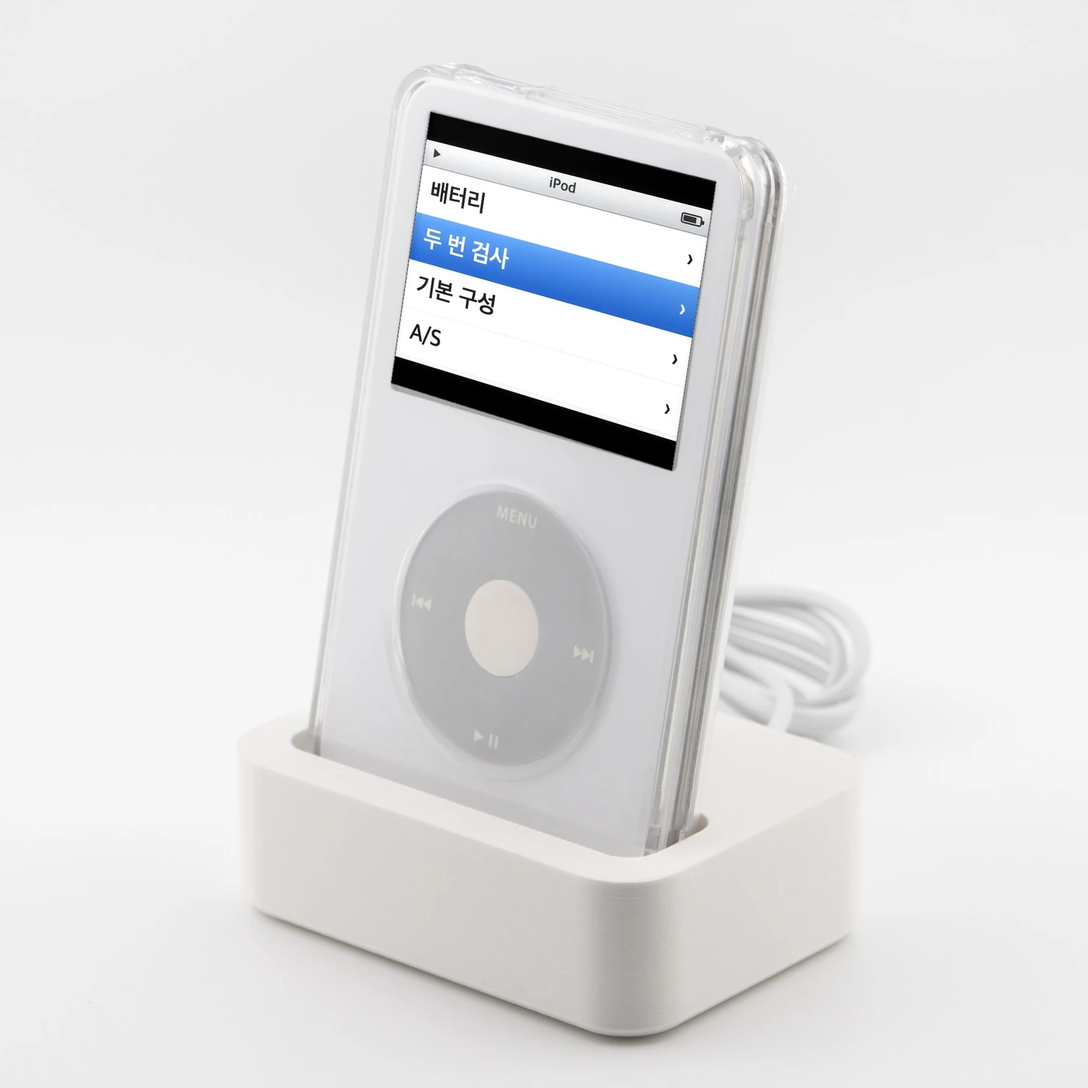
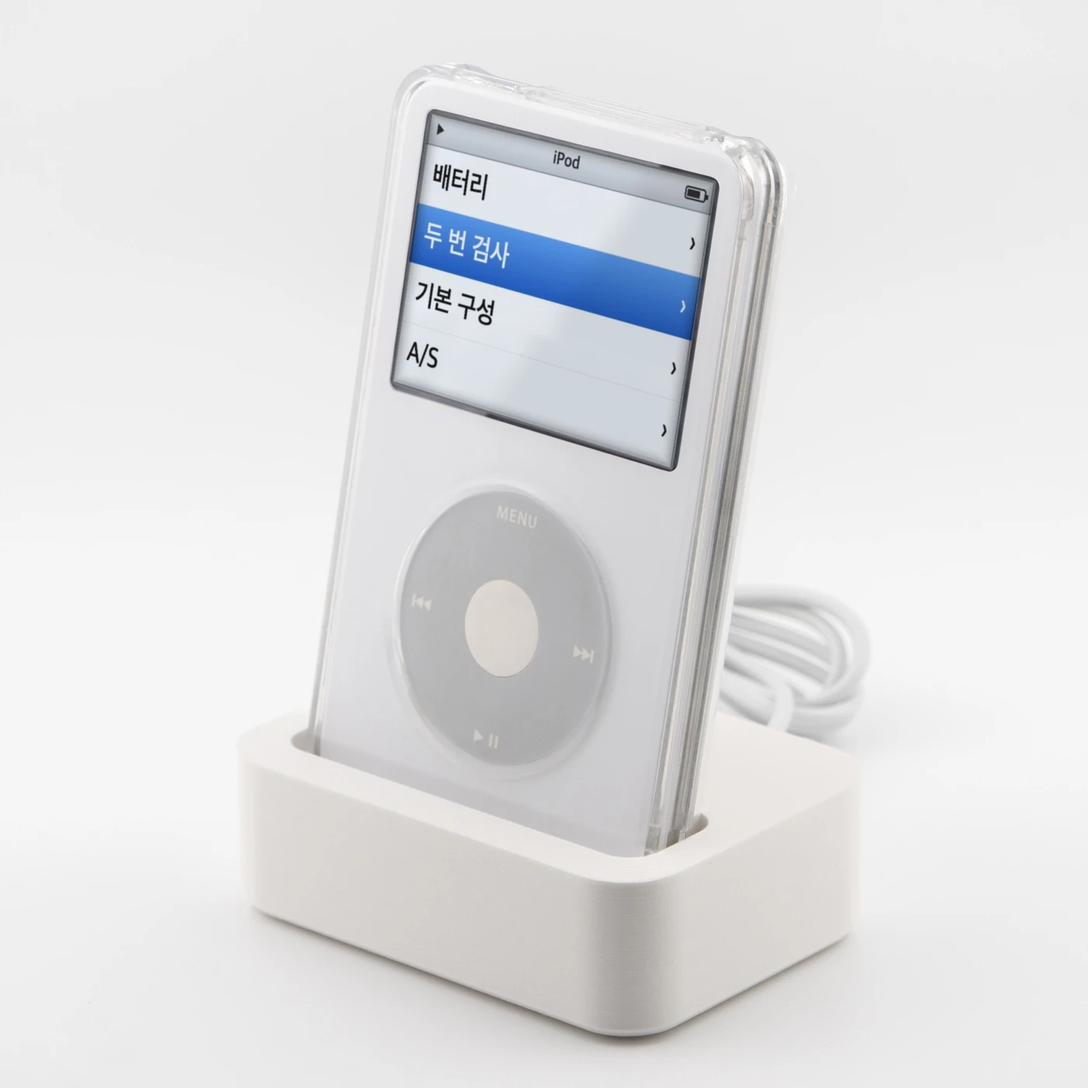
64GB 랜딩 비공개 미리보기(noindex) — preview_v4_3 공개용 사본
첫 화면 영상 타일, 클릭휠 4컷, c3 클립, 버튼 문구 안 A, 행사 구간 자동 전환(11/29 23:59:59 KST).

Changed region(s): [[0.3379, 0.0921, 0.6757, 0.43]]

diff --git a/index.html b/index.html
@@ -10,7 +10,7 @@
 <style>
 
 .pp-landing{
- --pp-bg:#ffffff;--pp-alt:#f5f5f7;--pp-ink:#1d1d1f;--pp-ink2:#6e6e73;--pp-ink3:#86868b;--pp-line:#d2d2d7;--pp-line2:#e8e8ed;--pp-white:#ffffff;
+ --pp-bg:#ffffff;--pp-alt:#f5f5f7;--pp-ink:#1d1d1f;--pp-ink2:#6e6e73;--pp-ink3:#6e6e73;--pp-line:#d2d2d7;--pp-line2:#e8e8ed;--pp-white:#ffffff;
  --pp-bar:rgba(255,255,255,.82);--pp-scrim:rgba(29,29,31,.72);--pp-accent:#0071e3;--pp-accent-hover:#0077ed;--pp-link:#0066cc;--pp-on-accent:#ffffff;--pp-dark:#111111;--pp-on-dark:#f5f5f7;
  --pp-font:"SF Pro Display","SF Pro Text",-apple-system,BlinkMacSystemFont,"Apple SD Gothic Neo",Pretendard,"Noto Sans KR",sans-serif;
  --pp-t-hero:clamp(44px,12.4vw,96px);--pp-t-h2:clamp(34px,9.4vw,64px);--pp-t-h3:clamp(26px,7vw,40px);--pp-t-lede:clamp(21px,5.6vw,28px);--pp-t-body:17px;--pp-t-cap:14px;--pp-t-num:clamp(96px,32vw,220px);
@@ -67,8 +67,6 @@
 .pp-landing .pp-slot>img.pp-cur{opacity:1;z-index:2}
 .pp-landing .pp-slot>video.pp-cur{z-index:2}
 .pp-landing .pp-slot>video.pp-play{opacity:1}
-.pp-landing .pp-slot .pp-wait{position:absolute;left:12px;bottom:12px;z-index:3;margin:0;padding:6px 12px;border-radius:var(--pp-r-pill);background:rgba(255,255,255,.88);color:var(--pp-ink2);font-size:13px;font-weight:600;line-height:1.3;letter-spacing:0}
-.pp-landing .pp-slot .pp-wait[hidden]{display:none}
 .pp-landing .pp-snd{position:absolute;left:var(--pp-gutter);bottom:16px;width:44px;height:44px;border-radius:50%;border:0;background:var(--pp-scrim);display:grid;place-items:center;color:var(--pp-white);cursor:pointer;transition:background-color var(--pp-d-press) var(--pp-ease),transform var(--pp-d-press) var(--pp-ease)}
 .pp-landing .pp-snd[aria-pressed="true"]{background:var(--pp-accent)}
 .pp-landing .pp-snd svg{width:22px;height:22px;fill:none;stroke:currentColor;stroke-width:1.6;stroke-linecap:round;stroke-linejoin:round}
@@ -85,6 +83,25 @@
 .pp-landing .pp-evp small{display:block;margin-top:4px;font-size:14px;font-weight:500;color:var(--pp-ink2);letter-spacing:0}
 
 /* 글꼴 자체 호스팅 자리: assets.json 의 fonts.enabled 가 켜지면 빌더가 글꼴 규칙을 이 파일 앞에 만든다(지금은 꺼짐 = 위 --pp-font 시스템 스택 그대로). 파일은 assets/fonts/ 에 둔다. */
+
+/* 영상 프레임 타일(첫 화면·c3): 둥근 타일, 정지 이미지 위에 캔버스가 페이드로 올라온다. 전면 풀블리드 아님 */
+.pp-landing .pp-vwrap{position:relative;margin:var(--pp-s4) auto 0;max-width:calc(520px + 2*var(--pp-gutter));padding:0 var(--pp-gutter);box-sizing:border-box}
+.pp-landing .pp-vtile{position:relative;overflow:hidden;isolation:isolate;aspect-ratio:var(--pp-w)/var(--pp-h);background:#d9d9de}
+.pp-landing .pp-vwrap .pp-vtile{border-radius:var(--pp-r-tile)}
+.pp-landing .pp-vtile img,.pp-landing .pp-vtile canvas{position:absolute;left:0;top:0;width:100%;height:100%;max-width:none;object-fit:cover}
+.pp-landing .pp-vtile canvas{opacity:0;transition:opacity .22s ease-out}
+.pp-landing .pp-vtile.pp-run canvas{opacity:1}
+.pp-landing .pp-vwrap .pp-snd{left:calc(var(--pp-gutter) + 14px);bottom:14px}
+.pp-landing .pp-photo .pp-vtile{width:min(100%,560px);margin:0 auto}
+/* c3: 영상 위 흰 글자가 밝은 부분에서도 읽히도록 위·아래에 어두운 그라데이션(영상 위에 얹는 장식이 아니라 가독성 보조) */
+/* 가격 칸 앞 글자(판매처 이름): 좁은 화면에서는 보조기기용으로만 */
+.pp-landing .pp-pfx{margin-right:6px;color:var(--pp-ink2);font-weight:500}
+@media (max-width:640px){.pp-landing .pp-pfx{position:absolute;width:1px;height:1px;overflow:hidden;clip:rect(0 0 0 0);white-space:nowrap;margin:0}}
+/* 좁은 화면: 위 줄의 상품명은 보조기기용으로만 남기고 가격·구매 버튼에 폭을 준다(버튼 글자가 길다) */
+@media (max-width:480px){.pp-landing .pp-nav .pp-nm{position:absolute;width:1px;height:1px;overflow:hidden;clip:rect(0 0 0 0);white-space:nowrap}}
+/* 버튼 아래 작은 한 줄 */
+.pp-landing .pp-btnnote{margin-top:12px;font-size:var(--pp-t-cap);line-height:1.4;color:var(--pp-ink2)}
+.pp-landing .pp-cta>.pp-btnnote{margin-top:12px}
 
 /* 장 0 */
 .pp-landing [data-pp-kind="hero"]{padding-top:calc(52px + var(--pp-s6))}
@@ -127,10 +144,9 @@
 .pp-landing [data-pp-kind="mood"]{padding:0;background:#000;color:#fff}
 .pp-landing .pp-photo{position:relative;margin:0;padding-top:56px;background:#000}
 .pp-landing .pp-photo>img{width:100%;height:min(150vw,980px);object-fit:cover;object-position:50% 62%}
-.pp-landing .pp-photo-txt{position:absolute;left:0;right:0;top:0;padding:clamp(48px,12vw,88px) var(--pp-gutter) 0}
+.pp-landing .pp-photo-txt{position:absolute;left:0;right:0;top:0;padding:clamp(48px,12vw,88px) var(--pp-gutter) var(--pp-s5);background:linear-gradient(rgba(0,0,0,.66),rgba(0,0,0,.4) 72%,rgba(0,0,0,0))}
 .pp-landing .pp-photo-txt p{font-size:clamp(34px,9.4vw,52px);font-weight:700;letter-spacing:var(--pp-track-head);line-height:1.18}
-.pp-landing .pp-photo-cap{position:absolute;left:0;right:0;bottom:8px;font-size:13px;color:rgba(255,255,255,.7);text-align:center}
-.pp-landing .pp-photo-cta{position:absolute;left:0;right:0;bottom:36px;text-align:center}
+.pp-landing .pp-photo-cta{position:absolute;left:0;right:0;bottom:0;padding:var(--pp-s4) 0 36px;text-align:center;background:linear-gradient(rgba(0,0,0,0),rgba(0,0,0,.5))}
 .pp-landing .pp-photo-cta .pp-link{color:#fff;font-size:21px;min-height:44px}
 
 /* 다리: 클릭휠 */
@@ -207,8 +223,6 @@
 }
 </style></head>
 <body>
-<!-- 미리보기 전용: 비공개 시험 페이지(noindex). 가짜 가격·가짜 구매 영역은 카페24 상품 페이지를 흉내 낸 것이며 가격은 코드에 굽지 않는다. -->
-<span id="ec-product-price-info" ec-data-price="267900" style="display:none"></span>
 <div class="pp-landing">
 <section id="pp-c0" data-pp-scene="c0" data-pp-act="1" data-pp-kind="hero">
 <div class="pp-wrap">
@@ -216,15 +230,13 @@
 <p class="pp-lede" data-pp-r>어른이 된 지금은,<br>가질 수 있습니다.</p>
 <h1 class="pp-name" data-pp-r>아이팟 클래식 5세대 64GB</h1>
 </div>
-<div class="pp-stagewrap"><div class="pp-stage"><div class="pp-slot" data-pp-slot="hero" data-pp-states="off,boot,menu,play" data-pp-cuts="{&quot;off&quot;:&quot;assets/c0/hero_off.webp&quot;,&quot;boot&quot;:&quot;assets/c0/hero_boot.webp&quot;,&quot;menu&quot;:&quot;assets/c0/hero_menu.webp&quot;,&quot;play&quot;:&quot;assets/c0/hero_play.webp&quot;}" data-pp-clips="{}" data-pp-labels="{&quot;off&quot;:&quot;꺼진 화면&quot;,&quot;boot&quot;:&quot;부팅&quot;,&quot;menu&quot;:&quot;메뉴&quot;,&quot;play&quot;:&quot;재생&quot;}" data-pp-seq="off:800,boot:1200,menu:1600,play:0" data-pp-rest="menu" data-pp-wait="1" style="--pp-w:1400;--pp-h:1400"><img class="pp-cur" src="assets/c0/hero_off.webp" alt="충전 독에 꽂혀 있는 아이팟 클래식 5세대" width="1400" height="1400" fetchpriority="high"><span class="pp-wait" hidden></span></div></div>
-<button type="button" class="pp-snd" data-pp-sound aria-pressed="false" aria-label="소리 켜기"><svg viewBox="0 0 24 24" aria-hidden="true" focusable="false"><path d="M4 9v6h4l5 4V5L8 9H4z"/><path d="M16.5 8.5a5 5 0 0 1 0 7M19 6a8.5 8.5 0 0 1 0 12"/></svg></button></div>
+<div class="pp-vwrap"><div class="pp-vtile" data-pp-seqclip data-pp-base="assets/c0/seq/h_" data-pp-count="72" data-pp-ext=".webp" data-pp-fps="12" data-pp-w="720" data-pp-h="900" data-pp-eager="1" style="--pp-w:720;--pp-h:900"><img src="assets/c0/hero_menu.webp" alt="손에 든 아이팟 클래식 5세대가 뒷판에서 앞으로 돌며 화면이 켜지고 메뉴가 넘어가는 영상" width="720" height="900" fetchpriority="high" decoding="async"><canvas aria-hidden="true"></canvas></div></div>
 <p class="pp-cue">아래로</p>
 </section>
 <section id="pp-c1" data-pp-scene="c1" data-pp-act="1" data-pp-kind="memory"><div class="pp-wrap">
 <h2 class="pp-h2 pp-g" data-pp-split="focus">그때는 비쌌고,<br>지금은 단종입니다.</h2>
 <h2 class="pp-h2" data-pp-split="focus" style="margin-top:6px">그래서 더 갖고<br>싶었던 물건.</h2>
 <div class="pp-tile" style="margin-top:var(--pp-s5)"><picture><source media="(prefers-reduced-motion: reduce)" srcset="assets/c1/back_close.webp"><img class="pp-strip" src="assets/c1/mirror.webp" alt="은색과 검정 아이팟 클래식이 나무 책상 위에 놓여 있다가 거울 같은 뒷판이 보이는 영상" width="720" height="360" loading="lazy" decoding="async" data-pp-r></picture></div>
-<p class="pp-cap">분위기 컷 · 판매 제품과 다를 수 있습니다</p>
 <p><a class="pp-link" href="#pp-buy-area" data-pp-cta>64GB 보기</a></p>
 </div></section>
 <section id="pp-c2" data-pp-scene="c2" data-pp-act="1" data-pp-kind="s1" data-pp-end="300,200">
@@ -246,10 +258,9 @@
 </div>
 </section>
 <section id="pp-c3" data-pp-scene="c3" data-pp-act="1" data-pp-kind="mood">
-<figure class="pp-photo"><img src="assets/c3/song.webp" alt="어두운 배경의 나무 책상 위에 세워 둔 아이팟 클래식" width="860" height="573" loading="lazy" decoding="async">
+<figure class="pp-photo"><div class="pp-vtile" data-pp-seqclip data-pp-base="assets/c3/seq/p_" data-pp-count="22" data-pp-ext=".webp" data-pp-fps="12" data-pp-w="720" data-pp-h="900" style="--pp-w:720;--pp-h:900"><img src="assets/c3/song.webp" alt="아이팟에 이어폰 잭을 꽂는 영상" width="720" height="900" loading="lazy" decoding="async"><canvas aria-hidden="true"></canvas></div>
 <div class="pp-photo-txt"><p data-pp-split="focus">곡은 직접 담습니다.<br>줄은 엉킵니다.<br>알림은 안 옵니다.<br>불편해서 좋습니다.</p></div>
-<div class="pp-photo-cta"><a class="pp-link" href="#pp-buy-area" data-pp-cta>구입하기</a></div>
-<p class="pp-photo-cap">분위기 컷 · 판매 제품과 다를 수 있습니다</p>
+<div class="pp-photo-cta"><a class="pp-link" href="#pp-buy-area" data-pp-cta>네이버에서 구입하기</a></div>
 </figure>
 </section>
 <section id="pp-bridge" data-pp-scene="bridge" data-pp-act="2" data-pp-kind="wheel"><div class="pp-wrap">
@@ -257,7 +268,7 @@
 <h2 class="pp-h2" data-pp-split="focus" style="margin-top:6px">중요한 건,<br>어디에서 사느냐입니다.</h2>
 <p class="pp-lede" data-pp-r>휠을 돌려 보세요.</p>
 </div>
-<div class="pp-stagewrap" data-pp-r><div class="pp-stage" style="--wx:46.40;--wy:58.40;--wa:10.00;--wb:13.30"><div class="pp-slot" data-pp-slot="wheel" data-pp-states="battery,check,kit,as" data-pp-cuts="{&quot;check&quot;:&quot;assets/bridge/wheel_check.webp&quot;}" data-pp-clips="{}" data-pp-labels="{&quot;battery&quot;:&quot;배터리&quot;,&quot;check&quot;:&quot;두 번 검사&quot;,&quot;kit&quot;:&quot;기본 구성&quot;,&quot;as&quot;:&quot;A/S&quot;}" data-pp-wait="1" style="--pp-w:1400;--pp-h:1400"><span class="pp-wait">디자인팀 컷 대기 · 배터리</span></div>
+<div class="pp-stagewrap" data-pp-r><div class="pp-stage" style="--wx:46.40;--wy:58.40;--wa:10.00;--wb:13.30"><div class="pp-slot" data-pp-slot="wheel" data-pp-states="battery,check,kit,as" data-pp-cuts="{&quot;battery&quot;:&quot;assets/bridge/wheel_battery.webp&quot;,&quot;check&quot;:&quot;assets/bridge/wheel_check.webp&quot;,&quot;kit&quot;:&quot;assets/bridge/wheel_kit.webp&quot;,&quot;as&quot;:&quot;assets/bridge/wheel_as.webp&quot;}" data-pp-clips="{}" data-pp-labels="{&quot;battery&quot;:&quot;배터리&quot;,&quot;check&quot;:&quot;두 번 검사&quot;,&quot;kit&quot;:&quot;기본 구성&quot;,&quot;as&quot;:&quot;A/S&quot;}" style="--pp-w:1400;--pp-h:1400"><img class="pp-cur" src="assets/bridge/wheel_battery.webp" alt="클릭휠로 고르는 메뉴: 배터리, 두 번 검사, 기본 구성, A/S" width="1400" height="1400" loading="lazy" decoding="async"></div>
 <div class="pp-wheel" data-pp-wheel tabindex="0" role="group" aria-label="클릭휠. 돌리면 메뉴가 넘어갑니다. 위아래 화살표로 선택, Enter로 이동"></div></div></div>
 <div class="pp-wrap"><ul class="pp-list" data-pp-menu>
 <li class="pp-sel"><a href="#pp-battery" data-pp-d="1950mAh 새것입니다">배터리</a></li>
@@ -306,7 +317,7 @@
 <div class="pp-tl" data-pp-r><div><b>7일</b>교환<br>환불</div><div class="pp-x"><b>180일 무상</b>남긴 메인보드·프레임까지 포함</div><div class="pp-y"><b>그 뒤 평생 실비</b>부품값·공임만</div></div>
 <p class="pp-cap" style="margin-top:16px">7일이 지난 뒤 왕복 택배비 7,000원은 고객 부담입니다</p>
 <p class="pp-lede" style="font-size:19px;margin-top:12px" data-pp-r>문의는 톡톡 QR로 받습니다</p></div>
-<p style="margin-top:var(--pp-s4)"><a class="pp-link" href="#pp-buy-area" data-pp-cta data-pp-r>구입하기</a></p>
+<p style="margin-top:var(--pp-s4)"><a class="pp-link" href="#pp-buy-area" data-pp-cta data-pp-r>네이버에서 구입하기</a></p>
 </div></section>
 <section id="pp-faq" data-pp-scene="faq" data-pp-act="2" data-pp-kind="faq"><div class="pp-wrap">
 <h2 class="pp-h2">자주 묻는 질문</h2>
@@ -318,16 +329,17 @@
 <section id="pp-c8" data-pp-scene="c8" data-pp-act="2" data-pp-kind="end"><div class="pp-wrap"><div class="pp-cta">
 <h2 class="pp-h2" data-pp-split="rev">마음에 드셨다면,<br>지금 담으세요.</h2>
 <p data-pp-r>평일 15시 전 주문하면 당일출고<br>7일 교환·환불, 180일 무상 A/S</p>
-<div class="pp-evp" data-pp-evnode data-pp-r><span class="pp-evb">블프</span><s>₩288,000</s> → 쿠폰 적용 <b>₩259,200</b><small>10%, 5만 원 이상·최대 10만, ~11/29 23:59</small></div>
+<div class="pp-evp" data-pp-evnode data-pp-r><span class="pp-evb">블프</span><s>₩288,000</s> → 쿠폰 적용 <b>₩259,200</b> (~11.29)<small>10%, 5만 원 이상·최대 10만, ~11/29 23:59</small></div>
 <div class="pp-three" data-pp-r><div><b>64GB</b>아이팟 클래식 5세대</div><div><b>1950mAh</b>직접 KC 안전확인 받은 새 배터리</div><div><b>6칸</b>직접 점검하고 보냅니다</div></div>
 <p class="pp-proof" data-pp-r>와디즈 5억+ · 후기 1,200건+</p>
-<p style="margin-top:var(--pp-s5)"><a class="pp-btn" href="#pp-buy-area" data-pp-cta data-pp-r>구입하기</a></p>
+<p style="margin-top:var(--pp-s5)"><a class="pp-btn" href="#pp-buy-area" data-pp-cta data-pp-r>네이버에서 구입하기</a></p>
+<p class="pp-btnnote" data-pp-r>페퍼클럽 네이버 스마트스토어로 이동합니다</p>
 </div>
 <p class="pp-foot">페퍼클럽은 Apple의 공식 판매처가 아닙니다. Apple, iPod는 Apple Inc.의 상표입니다. 사진 속 제품에 새겨진 로고는 제품 자체의 표기입니다.</p></div></section>
-<div data-pp-buy="1" data-pp-buy-ui="top" data-pp-name="아이팟 클래식 64GB" data-pp-label-1="구입하기" data-pp-label-2="구입하기" data-pp-buy-mode="scroll" data-pp-dest="naver" data-pp-ev="{&quot;normal&quot;:288000,&quot;coupon&quot;:259200,&quot;badge&quot;:&quot;블프&quot;,&quot;label&quot;:&quot;쿠폰 적용&quot;,&quot;note&quot;:&quot;10%, 5만 원 이상·최대 10만, ~11/29 23:59&quot;,&quot;ends&quot;:&quot;2026-11-29T23:59:59+09:00&quot;,&quot;title&quot;:&quot;아이팟 클래식 5세대 64GB — 한 대씩 다시 만든 페퍼클럽&quot;,&quot;desc&quot;:&quot;메인보드와 프레임만 남기고 1950mAh 새 배터리로 다시 만든 아이팟 클래식 5세대 64GB. 평일 15시 전 주문 당일출고, 180일 무상 A/S.&quot;}" data-pp-naver-url="https://smartstore.naver.com/main/products/11564119644" data-pp-naver-tags="{&quot;nt_source&quot;:&quot;pepperclub_home&quot;,&quot;nt_medium&quot;:&quot;landing&quot;,&quot;nt_detail&quot;:&quot;ipod64&quot;}" data-pp-naver-kw="{&quot;top&quot;:&quot;top&quot;,&quot;bottom&quot;:&quot;bottom&quot;,&quot;link&quot;:&quot;cta_{scene}&quot;,&quot;end&quot;:&quot;cta_end&quot;}" data-pp-naver-price="288000" style="height:0;overflow:hidden"></div>
+<div data-pp-buy="1" data-pp-buy-ui="top" data-pp-name="아이팟 클래식 64GB" data-pp-label-1="네이버에서 구입하기" data-pp-label-2="네이버에서 구입하기" data-pp-buy-mode="scroll" data-pp-dest="naver" data-pp-ev="{&quot;normal&quot;:288000,&quot;coupon&quot;:259200,&quot;badge&quot;:&quot;블프&quot;,&quot;label&quot;:&quot;쿠폰 적용&quot;,&quot;note&quot;:&quot;10%, 5만 원 이상·최대 10만, ~11/29 23:59&quot;,&quot;ends&quot;:&quot;2026-11-29T23:59:59+09:00&quot;,&quot;title&quot;:&quot;아이팟 클래식 5세대 64GB — 한 대씩 다시 만든 페퍼클럽&quot;,&quot;desc&quot;:&quot;메인보드와 프레임만 남기고 1950mAh 새 배터리로 다시 만든 아이팟 클래식 5세대 64GB. 평일 15시 전 주문 당일출고, 180일 무상 A/S.&quot;,&quot;until&quot;:&quot;~11.29&quot;,&quot;prefix&quot;:&quot;네이버 판매가&quot;}" data-pp-naver-url="https://smartstore.naver.com/main/products/11564119644" data-pp-naver-tags="{&quot;nt_source&quot;:&quot;pepperclub_home&quot;,&quot;nt_medium&quot;:&quot;landing&quot;,&quot;nt_detail&quot;:&quot;ipod64&quot;}" data-pp-naver-kw="{&quot;top&quot;:&quot;top&quot;,&quot;bottom&quot;:&quot;bottom&quot;,&quot;link&quot;:&quot;cta_{scene}&quot;,&quot;end&quot;:&quot;cta_end&quot;}" data-pp-naver-price="288000" data-pp-price-prefix="네이버 판매가" style="height:0;overflow:hidden"></div>
 </div>
 
-<div id="pp-buy-area" class="xans-product-action" style="scroll-margin-top:60px;padding:80px 16px 180px;text-align:center;background:#f5f5f7;color:#6e6e73;font:500 14px/1.5 sans-serif">실제 페이지에서는 카페24 구매 영역이 여기에 이어집니다</div>
+<div id="pp-buy-area" class="xans-product-action" aria-hidden="true" style="height:0"></div>
 <script src="https://cdnjs.cloudflare.com/ajax/libs/gsap/3.13.0/gsap.min.js"></script>
 <script src="https://cdnjs.cloudflare.com/ajax/libs/gsap/3.13.0/ScrollTrigger.min.js"></script>
 <script src="https://cdnjs.cloudflare.com/ajax/libs/gsap/3.13.0/SplitText.min.js"></script>
@@ -378,14 +390,16 @@ function srvNow(cb){var done=0,ac=w.AbortController?new w.AbortController():null
 /* 행사 구간 표시 — 위 제품 줄(또는 하단 버튼)의 가격 칸: 라벨 + 취소선 평시가 → 라벨 문구 + 행사가. 작은 화면에서는 행사가만 보이고 전체 문구는 보조기기용으로 남긴다. 글자는 전부 마커의 data-pp-ev 값(코드에 문구 없음). */
 function mk(t,c,x){var e=d.createElement(t);if(c)e.className=c;if(x)e.appendChild(d.createTextNode(x));return e}
 function won(n){return '₩'+n.toLocaleString('ko-KR')}
+/* 평시 가격 칸: [앞 글자] + 가격. 앞 글자(예: 판매처 이름)는 좁은 화면에서 보조기기용으로만 남는다. */
+function plain(pr,n,pf){pr.className='pp-price';while(pr.firstChild)pr.removeChild(pr.firstChild);if(pf)pr.appendChild(mk('span','pp-pfx',pf));pr.appendChild(d.createTextNode(won(n)))}
 function evPrice(pr,ev){var f=mk('span','pp-evf'),sv=mk('s','',won(ev.normal)),sm=mk('span','pp-evs',won(ev.coupon));
  pr.className='pp-price pp-ev';while(pr.firstChild)pr.removeChild(pr.firstChild);
- f.appendChild(sv);f.appendChild(d.createTextNode(' → '+ev.label+' '+won(ev.coupon)));sm.setAttribute('aria-hidden','true');
+ f.appendChild(sv);f.appendChild(d.createTextNode(' → '+ev.label+' '+won(ev.coupon)+(ev.until?' ('+ev.until+')':'')));sm.setAttribute('aria-hidden','true');
  if(ev.badge)pr.appendChild(mk('span','pp-evb',ev.badge));pr.appendChild(f);pr.appendChild(sm);R.classList.add('pp-event')}
 /* 행사 끝: 행사 전용 노드 제거 + 가격 칸을 평시가로 + 제목·설명을 평시 값으로(값은 마커에 실려 있다). 한 번만. */
 function evOff(ev){if(evDone)return;evDone=1;R.classList.remove('pp-event');
  slice.call(d.querySelectorAll('[data-pp-evnode]')).forEach(function(n){if(n.parentNode)n.parentNode.removeChild(n)});
- if(PR){PR.className='pp-price';while(PR.firstChild)PR.removeChild(PR.firstChild);PR.appendChild(d.createTextNode(won(ev.normal)))}
+ if(PR)plain(PR,ev.normal,ev.prefix||'')
  if(ev.title)d.title=ev.title;var m=d.querySelector('meta[name=description]');if(m&&ev.desc)m.setAttribute('content',ev.desc);
  if(M)M.removeAttribute('data-pp-ev');ev2('pp:event',{on:false})}
 function evInit(){var ev=M&&EV;if(!ev)return;
@@ -397,7 +411,7 @@ function evInit(){var ev=M&&EV;if(!ev)return;
    위 제품 줄 버튼·하단 고정 버튼·[data-pp-cta] 링크 전부 같은 도착지를 쓴다. 가격: naver 면 마커의 data-pp-naver-price(없으면 칸 자체를 안 그림), cafe24 면 #ec-product-price-info 의 ec-data-price.
    위 얇은 제품 줄(기본, 알약 버튼) 또는 하단 고정 버튼 — 마커의 data-pp-buy-ui="top|bottom" 한 줄로 전환. */
 function buy(){if(!M)return;
- var top=(M.getAttribute('data-pp-buy-ui')||'top')=='top',nv=M.getAttribute('data-pp-dest')=='naver',W,P=d.getElementById('ec-product-price-info'),pr,nu='';
+ var top=(M.getAttribute('data-pp-buy-ui')||'top')=='top',nv=M.getAttribute('data-pp-dest')=='naver',W,P=d.getElementById('ec-product-price-info'),pr,pfx,nu='';
  var u0=M.getAttribute('data-pp-naver-url')||'',tg=pj(M,'data-pp-naver-tags'),kw=pj(M,'data-pp-naver-kw');
  function nuf(k){var t={},x;for(x in tg)t[x]=tg[x];t.nt_keyword=k;return tagUrl(u0,t)}
  if(nv){nv=!!u0;if(nv)nu=nuf(top?(kw.top||'top'):(kw.bottom||'bottom'))}
@@ -405,7 +419,7 @@ function buy(){if(!M)return;
  if(nv){B.target='_blank';B.rel='noopener noreferrer'}else B.setAttribute('role','button');
  L=d.createElement('span');L.appendChild(d.createTextNode(''));B.appendChild(L);
  P=nv?parseInt(M.getAttribute('data-pp-naver-price'),10):parseInt(P&&P.getAttribute('ec-data-price'),10);
- if(P>0){pr=d.createElement('span');pr.className='pp-price';pr.appendChild(d.createTextNode('₩'+P.toLocaleString('ko-KR')));PR=pr;
+ if(P>0){pr=d.createElement('span');pr.className='pp-price';pfx=nv?M.getAttribute('data-pp-price-prefix')||'':'';plain(pr,P,pfx);PR=pr;
   EV=nv?pj(M,'data-pp-ev'):null;if(EV&&!(EV.coupon>0&&EV.normal>0&&EV.ends))EV=null;if(EV)evPrice(pr,EV)}
  if(top){W=d.createElement('div');W.className='pp-nav';var nm=d.createElement('span');nm.className='pp-nm';nm.appendChild(d.createTextNode(M.getAttribute('data-pp-name')||''));
   W.appendChild(nm);if(pr)W.appendChild(pr);W.appendChild(B);R.classList.add('pp-ui-top');
@@ -416,7 +430,7 @@ function buy(){if(!M)return;
   e.preventDefault();try{emit('pp_buy_click',null,A);
   if(M.getAttribute('data-pp-buy-mode')=='submit'&&typeof w.product_submit=='function'){w.product_submit(1,'/exec/front/order/basket/',B);return}
   go(d.querySelector('.xans-product-action')||d.getElementById('fixedActionButton'))
- }catch(x){w.console&&console.warn('pp_v42',x&&x.message)}});
+ }catch(x){w.console&&console.warn('pp_v43',x&&x.message)}});
  R.appendChild(W);setAct(1);
  slice.call(d.querySelectorAll('[data-pp-cta]')).forEach(function(a){
   if(nv){var sc=a.closest&&a.closest('[data-pp-scene]'),id=sc?sc.getAttribute('data-pp-scene'):'';a.href=nuf(a.classList.contains('pp-btn')?(kw.end||'cta_end'):(kw.link||'cta_{scene}').replace('{scene}',id));a.target='_blank';a.rel='noopener noreferrer';a.addEventListener('click',function(){try{emit('pp_buy_click',null,A,'naver')}catch(x){}})}
@@ -452,15 +466,15 @@ function s1(el){
 var SL={};
 function pj(el,k){try{return JSON.parse(el.getAttribute(k)||'{}')||{}}catch(x){return{}}}
 function slot(el){
- var nm=el.getAttribute('data-pp-slot'),st=(el.getAttribute('data-pp-states')||'').split(','),cu=pj(el,'data-pp-cuts'),cl=pj(el,'data-pp-clips'),lb=pj(el,'data-pp-labels'),
-  wt=el.getAttribute('data-pp-wait')=='1',wl=el.querySelector('.pp-wait'),fi=el.querySelector('img'),sq=(el.getAttribute('data-pp-seq')||'').split(',').filter(Boolean),
+ var nm=el.getAttribute('data-pp-slot'),st=(el.getAttribute('data-pp-states')||'').split(','),cu=pj(el,'data-pp-cuts'),cl=pj(el,'data-pp-clips'),
+  fi=el.querySelector('img'),sq=(el.getAttribute('data-pp-seq')||'').split(',').filter(Boolean),
   rest=st.indexOf(el.getAttribute('data-pp-rest')||''),Ly=[],cur=-1,pvL=null,tk=0,vis=false,pre=false,go1=0,wn={},ct,k,im,own,c,L;
  function els(L){return L.vd?[L.im,L.vd]:[L.im]}
  function cls(L,n,on){els(L).forEach(function(e){e.classList[on?'add':'remove'](n)})}
- function warn(t){w.console&&console.warn('pp_v42 '+nm+'/'+t)}
+ function warn(t){w.console&&console.warn('pp_v43 '+nm+'/'+t)}
  for(k=0;k<st.length;k++)if(cu[st[k]]){
   own=k==0&&fi;im=own?fi:d.createElement('img');
-  if(!own){im.alt='';im.setAttribute('aria-hidden','true');im.decoding='async';el.insertBefore(im,wl||null)}
+  if(!own){im.alt='';im.setAttribute('aria-hidden','true');im.decoding='async';el.appendChild(im)}
   c=cl[st[k]]||{};L={im:im,src:cu[st[k]],clip:c,ok:null,cb:[],on:0,k:k,vd:null};Ly[k]=L;
   if(c.mp4&&!RM){
    L.vd=d.createElement('video');L.vd.muted=true;L.vd.defaultMuted=true;L.vd.setAttribute('muted','');L.vd.playsInline=true;L.vd.setAttribute('playsinline','');
@@ -488,7 +502,6 @@ function slot(el){
  function retire(L){cls(L,'pp-prev',0);if(L.vd)L.vd.classList.remove('pp-play')}
  function apply(k,j){var N=j>=0?Ly[j]:null,O=cur>=0?Ly[cur]:null,lack=j!==k;
   if(lack&&!wn[k]){wn[k]=1;warn(st[k]+': 컷 없음 - '+(j>=0?'이전 컷('+st[j]+') 유지':'비어 있음'))}
-  if(wl){wl.hidden=!(wt&&lack);if(lack)wl.textContent='디자인팀 컷 대기 · '+(lb[st[k]]||st[k])}
   el.setAttribute('data-pp-cur',st[k]);el.setAttribute('data-pp-shown',j>=0?st[j]:'');
   if(j===cur)return;
   if(pvL&&pvL!==O)retire(pvL);
@@ -506,6 +519,28 @@ function slot(el){
  if(w.IntersectionObserver){
   new w.IntersectionObserver(function(es,o){if(es[0].isIntersecting){preload();o.disconnect()}},{rootMargin:'400px 0px'}).observe(el);
   new w.IntersectionObserver(function(es){if(es[0].isIntersecting)enter();else leave()},{threshold:.3}).observe(el)
+ }else enter()}
+
+/* 영상 프레임 타일: 프레임 이미지(base+번호+확장자)를 캔버스에 시간 순서대로 한 번 그리고 마지막 프레임에서 멈춘다. 정지 이미지는 영상이 뜨기 전·JS 꺼짐·읽기 실패의 폴백.
+   화면에 30% 이상 들어오면 시작(프레임이 다 모이거나 2.5초 뒤 첫 프레임이 있으면). 못 읽은 프레임은 직전 프레임으로 이어 간다. 움직임 줄이기: 마지막 프레임만 읽어 정지로 보여 준다. */
+function seqclip(el){
+ var n=+el.getAttribute('data-pp-count')||0,base=el.getAttribute('data-pp-base')||'',ext=el.getAttribute('data-pp-ext')||'.webp',fps=+el.getAttribute('data-pp-fps')||12,
+  W=+el.getAttribute('data-pp-w')||720,H=+el.getAttribute('data-pp-h')||900,cv=el.querySelector('canvas'),cx=cv&&cv.getContext&&cv.getContext('2d'),
+  Fr=[],loaded=0,nx=1,act=0,vis=false,started=0,late=0,last=0,tw=0,t0=0;
+ if(!cx||!n||!base)return;cv.width=W;cv.height=H;
+ function nm(k){return base+('000'+k).slice(-3)+ext}
+ function load(k,cb){var im=new Image();im.decoding='async';im.onload=function(){Fr[k]=im;cb()};im.onerror=function(){Fr[k]=0;cb()};im.src=nm(k)}
+ function draw(k){var f;while(k>0&&!(Fr[k]&&Fr[k].naturalWidth))k--;if(k<1||k===last)return;f=Fr[k];last=k;cx.drawImage(f,0,0,W,H);el.classList.add('pp-run')}
+ function frame(now){var k=Math.min(n,1+Math.floor((now-t0)/1000*fps));draw(k);if(k<n)w.requestAnimationFrame(frame)}
+ function go(){if(started)return;started=1;clearTimeout(tw);t0=w.performance.now();w.requestAnimationFrame(frame)}
+ function check(){if(started||!vis)return;if(loaded>=n||(late&&Fr[1]))go()}
+ function pump(){while(act<6&&nx<=n){act++;load(nx++,function(){act--;loaded++;pump();check()})}}
+ if(RM){load(n,function(){draw(n)});return}
+ if(el.getAttribute('data-pp-eager')=='1')pump();
+ function enter(){vis=true;pump();if(!tw&&!started)tw=setTimeout(function(){late=1;check()},2500);check()}
+ if(w.IntersectionObserver){
+  new w.IntersectionObserver(function(es,o){if(es[0].isIntersecting){pump();o.disconnect()}},{rootMargin:'400px 0px'}).observe(el);
+  new w.IntersectionObserver(function(es,o){if(es[0].isIntersecting){enter();o.disconnect()}},{threshold:.3}).observe(el)
  }else enter()}
 
 /* S2: 클릭휠. 각도 누적 -> 메뉴 이동(+틱) -> 슬롯 상태 번호. 휠은 이미지에 그려진 휠 위의 보이지 않는 히트 영역뿐(그리지 않는다). 메뉴는 JS 없이도 <a href> 목록. */
@@ -571,7 +606,7 @@ function boot(){
  w.addEventListener('load',function(){rf();idle(function(){slice.call(R.querySelectorAll('img[loading=lazy]')).forEach(function(im){im.loading='eager';if(!im.complete)im.addEventListener('load',rf)})})})}
 
 try{
- buy();evInit();slice.call(d.querySelectorAll('[data-pp-slot]')).forEach(slot);wheel();sound();
+ buy();evInit();slice.call(d.querySelectorAll('[data-pp-slot]')).forEach(slot);slice.call(d.querySelectorAll('[data-pp-seqclip]')).forEach(seqclip);wheel();sound();
  if(G&&T&&G.matchMedia){
   var e1=d.querySelector('[data-pp-s1]');if(e1&&!RM)s1(e1);
   boot()
@@ -580,7 +615,7 @@ try{
   for(i=0;i<S.length;i++)O.observe(S[i])
  }else for(i=0;i<S.length;i++)S[i].className+=' pp-in'
 }catch(e){
- R.classList.remove('pp-js');w.console&&console.warn('pp_v42',e&&e.message);
+ R.classList.remove('pp-js');w.console&&console.warn('pp_v43',e&&e.message);
  try{if(T)T.getAll().forEach(function(t){t.kill()});if(SP&&SP.revert)slice.call(d.querySelectorAll('[data-pp-split]')).forEach(function(x){var s=SP.get&&SP.get(x);s&&s.revert&&s.revert()});if(G)G.set(R.querySelectorAll('[data-pp-r],.pp-ln'),{clearProps:'all'})}catch(x){}
 }
 })();
